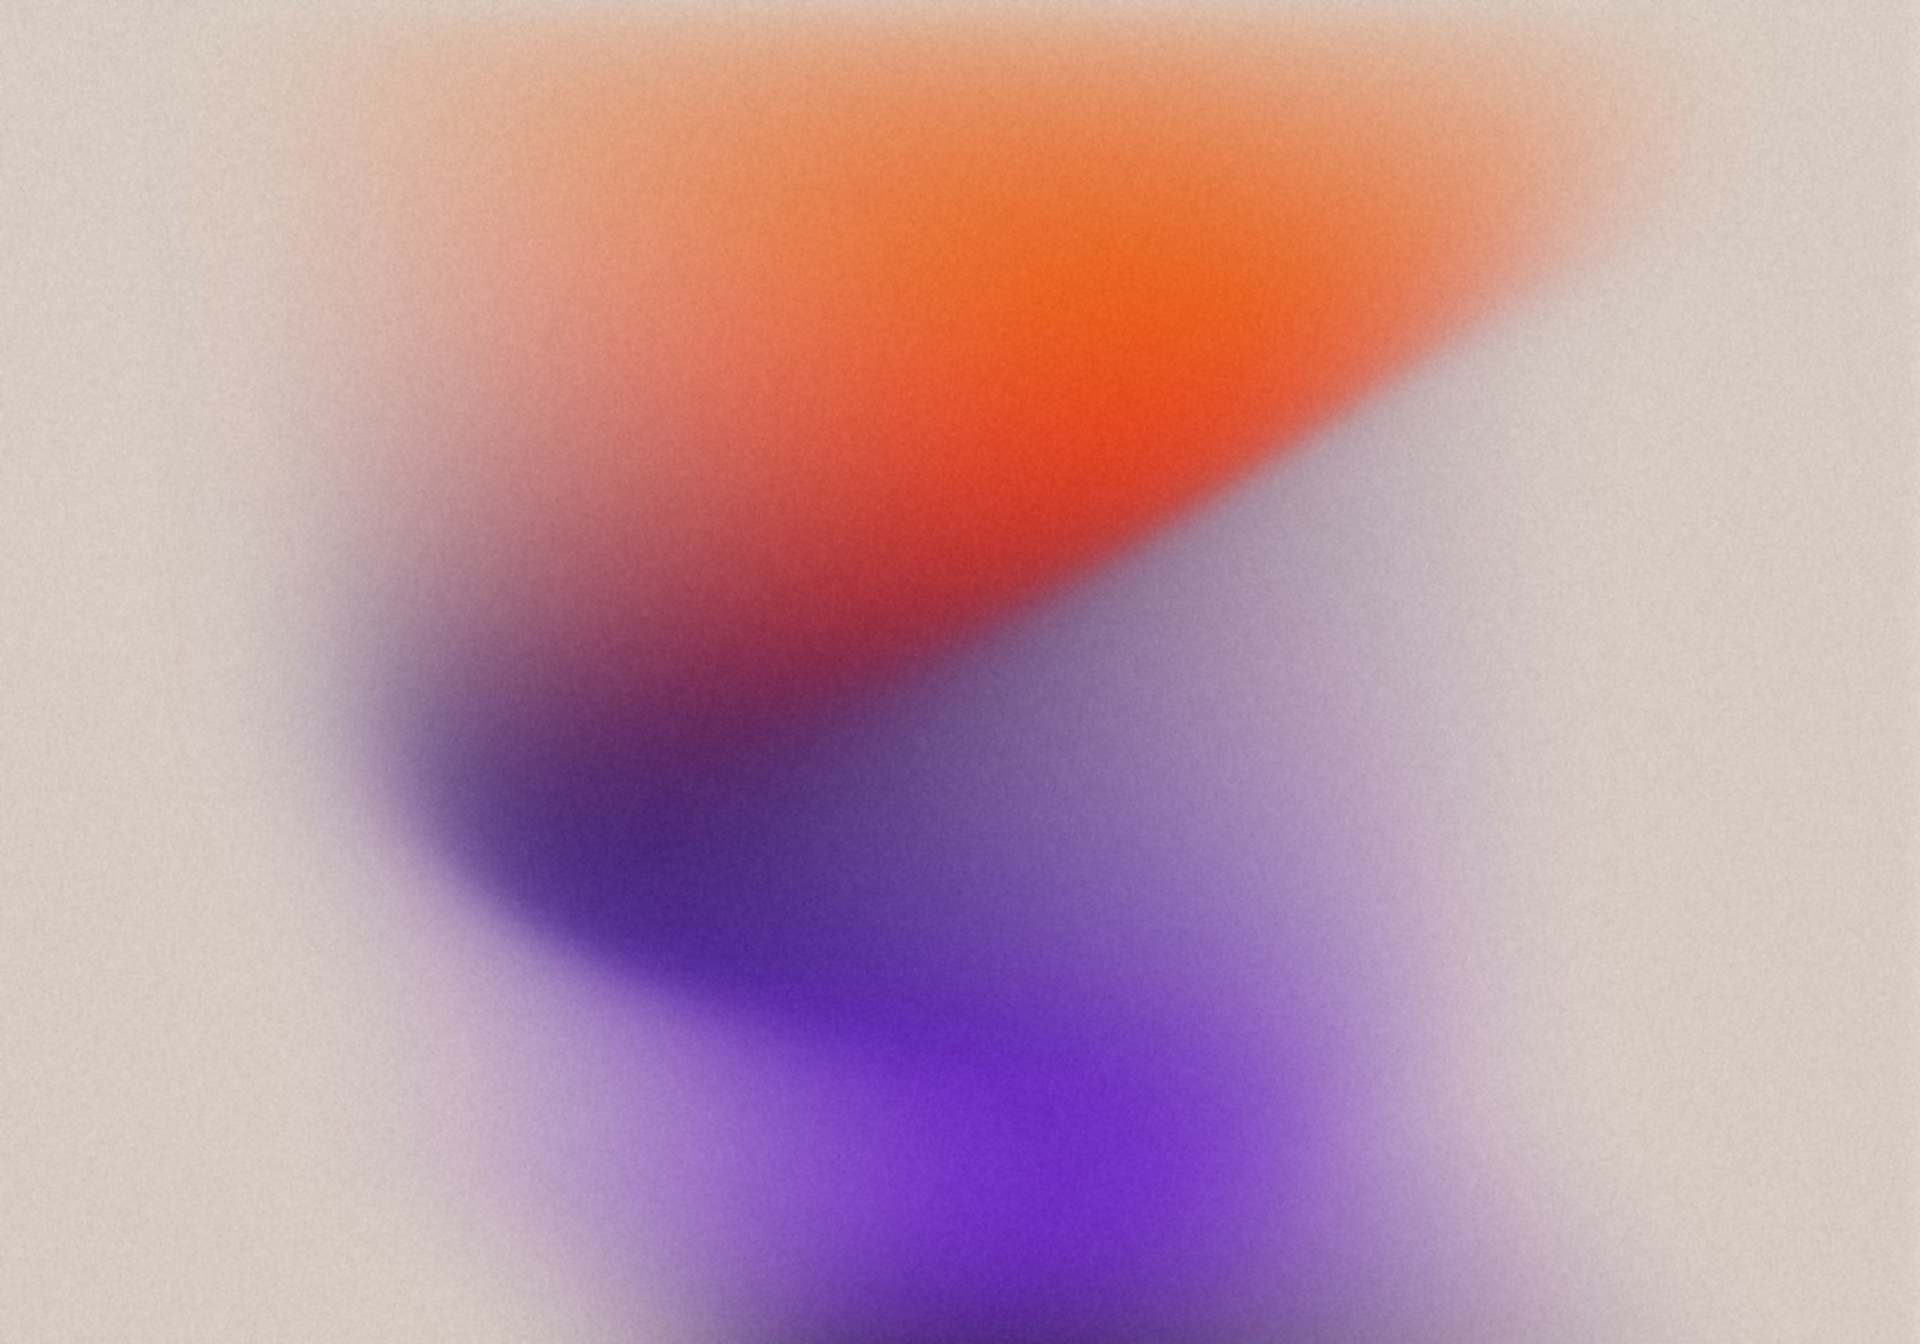
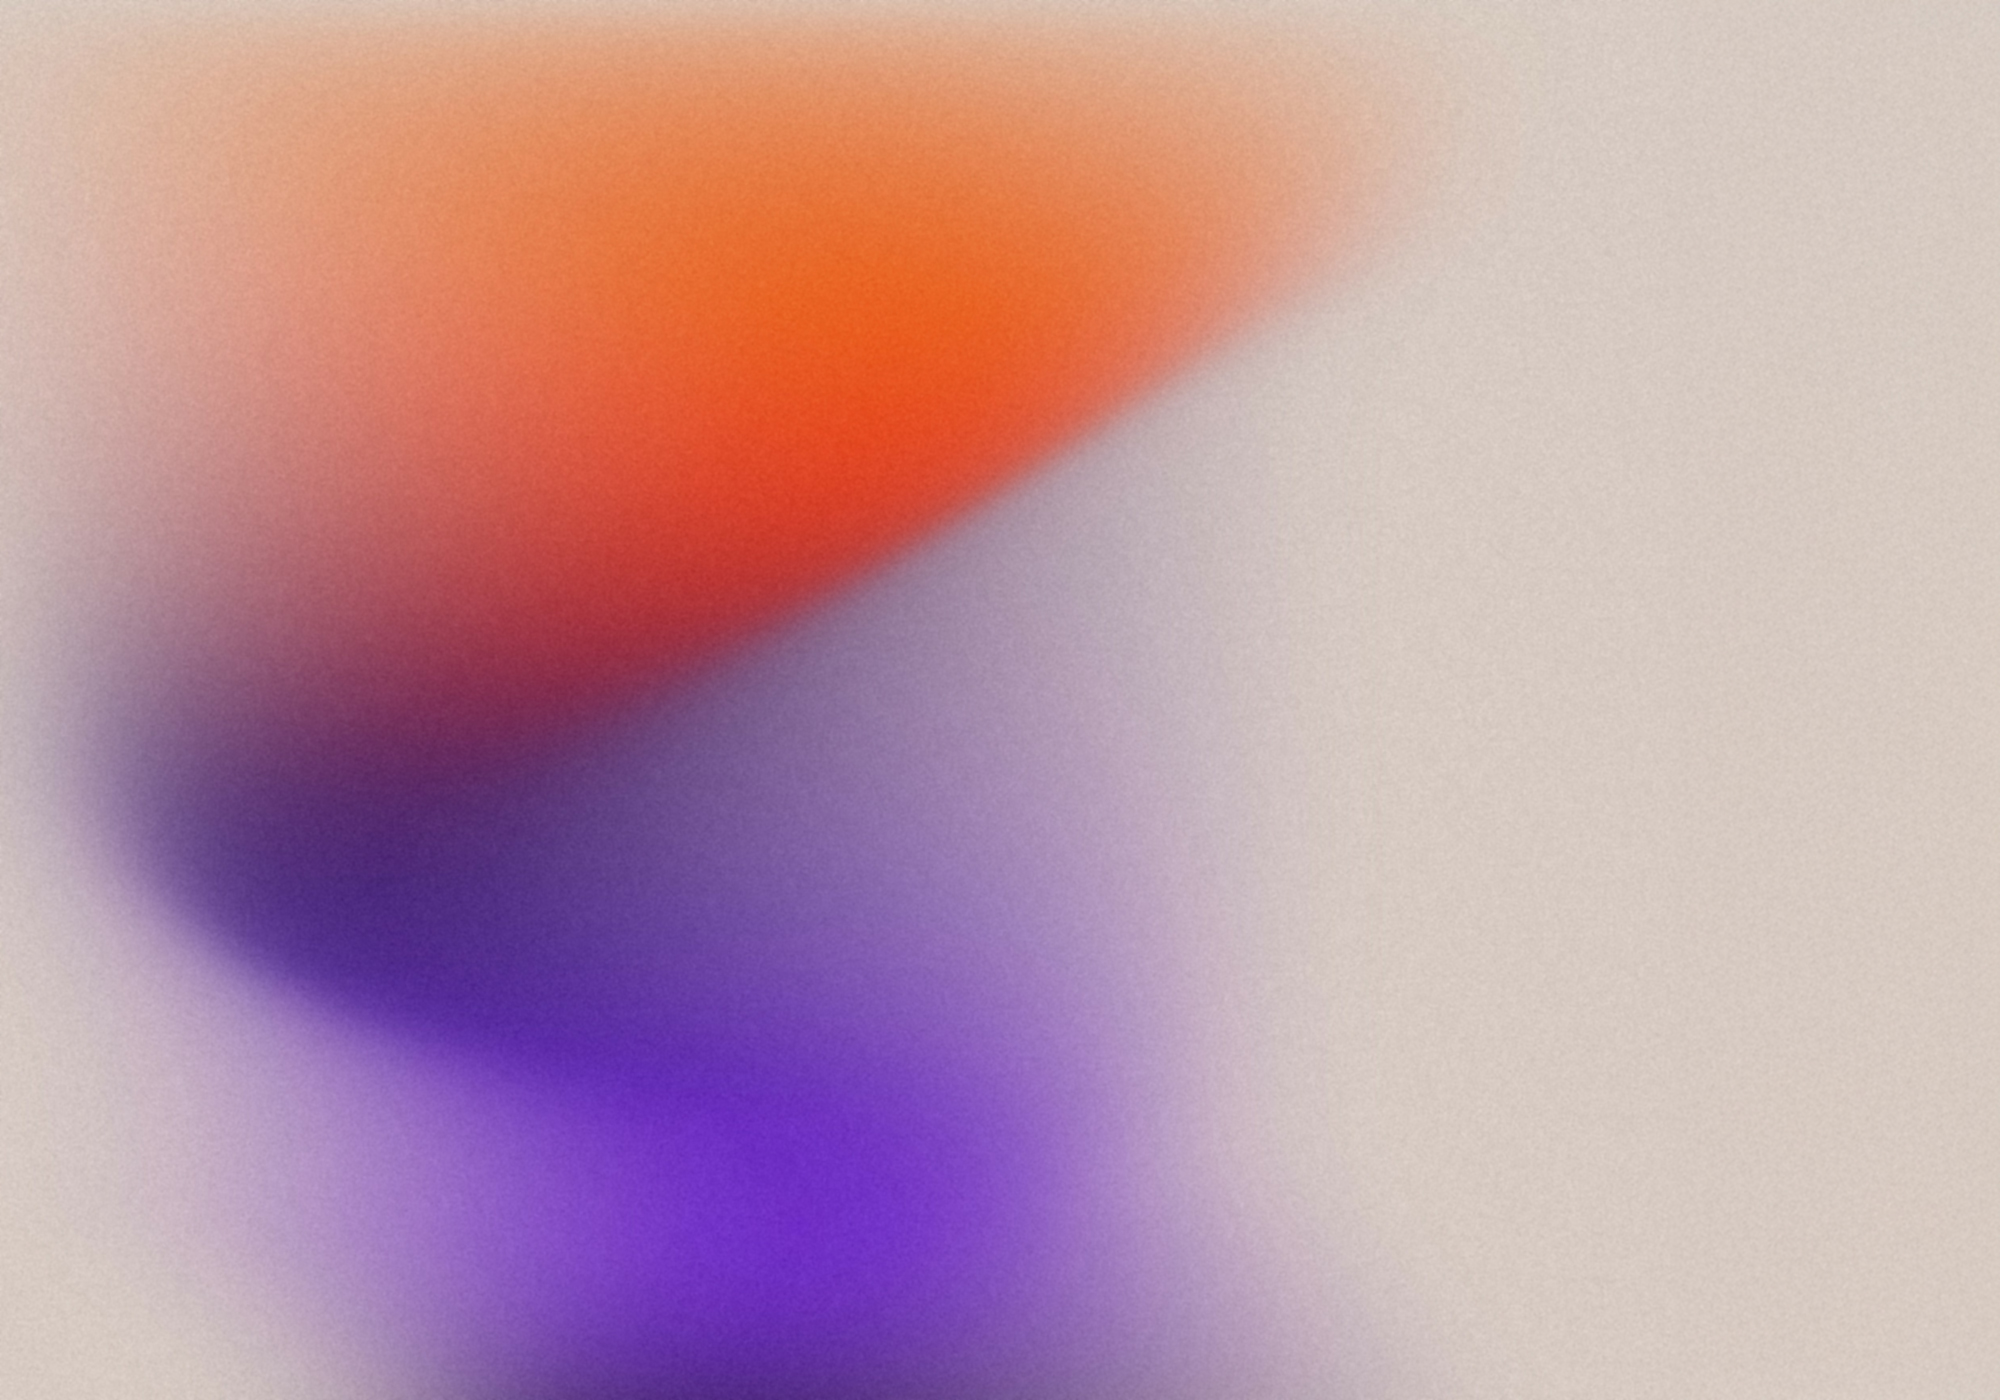
fixed background- changed headline

diff --git a/CSS/style.css b/CSS/style.css
@@ -18,7 +18,6 @@ h1 {
     font-family: sans-serif;
     font-weight: 700;
     font-size: 5rem;
-    line-height: 100px;
 }
 
 h2 {
@@ -28,6 +27,7 @@ h2 {
     font-style: normal;
     color: white;
     line-height: 1;
+    padding-bottom:10px;
 }
 
 section {
@@ -350,7 +350,7 @@ section.full-width-section {
     height: 100vh;
     object-fit: cover;
     position: relative;
-    justify-content: center;
+    justify-content: left;
     align-items: left;
     background-color: #f66f51;
 }
@@ -430,7 +430,7 @@ section.full-width-section {
 
 .full-width-image-text h1 {
     font-size: 6rem;
-    padding-bottom: 20px;
+    line-height:7rem;
     color: white;
 }
 
@@ -502,6 +502,7 @@ section.full-width-section {
     text-align: center;
     max-width: 120px;
     font-size:14px;
+    margin-top:20px;
 }
 
 /* Trending Section */

diff --git a/index.html b/index.html
@@ -50,8 +50,12 @@
             <div class="full-width-image">
                 <img src="../Assets/MurrayScott_Gradient.jpg" alt="Hero Image" class="full-width-image">
                 <div class="full-width-image-text"> 
-                    <h1>GROW YOUR BUSINESS</h1>
-                    <span class="cta-button">Learn More</button>
+                    <h1>DIGITAL</h1>
+                    <h1>WEBSITE</h1>
+                    <h1>ADS</h1>
+                    <h2>BUSINESS</h2>
+                    <h2>GROWTH</h2>
+                    <span class="cta-button">Work with Us</button>
                 </div>
             </div>
         </section>
